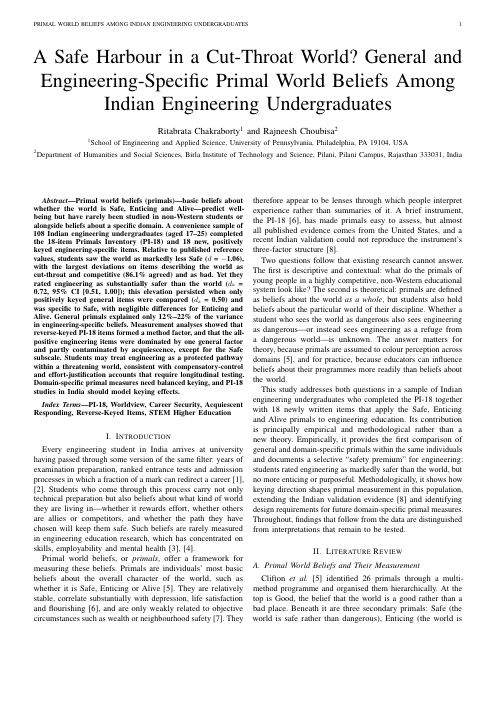
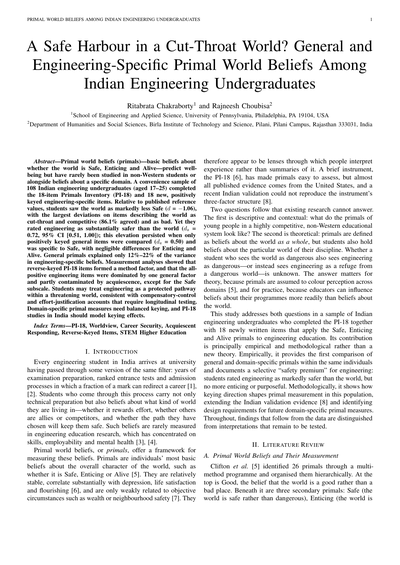
Polish project page typography/layout and README formatting
Page:
- Load Source Serif 4 / Inter / JetBrains Mono so fonts render identically everywhere
  (previous Charter/system-ui stack fell back to arbitrary system fonts)
- Fix paper thumbnail aspect ratio (missing height:auto stretched it); render at 150 dpi
- Left-align abstract (justify left large gaps where browsers lack hyphenation)
- Align Copy button with Citation heading; align BibTeX fields
- 2x2 stat grid and compact buttons on phones; keep author names unbroken
- Italic d in stat cards, sub/sup no longer disturb line height, figures link to full size

README: wrap reproduction commands to avoid horizontal scroll, add figure caption,
align BibTeX fields

Changed region(s): [[0.06, 0.2708, 0.93, 0.9027], [0.06, 0.0602, 0.93, 0.2407], [0.87, 0.2106, 0.9, 0.2407]]

diff --git a/docs/index.html b/docs/index.html
@@ -59,8 +59,15 @@
 }
 </script>
 
+<link rel="preconnect" href="https://fonts.googleapis.com">
+<link rel="preconnect" href="https://fonts.gstatic.com" crossorigin>
+<link rel="stylesheet" href="https://fonts.googleapis.com/css2?family=Source+Serif+4:ital,opsz,wght@0,8..60,400;0,8..60,600;0,8..60,700;1,8..60,400&family=Inter:wght@400;500;600;700&family=JetBrains+Mono:wght@400&display=swap">
+
 <style>
 :root {
+  --serif: "Source Serif 4", Georgia, "Times New Roman", serif;
+  --sans: "Inter", -apple-system, "Segoe UI", Roboto, "Helvetica Neue", Arial, sans-serif;
+  --mono: "JetBrains Mono", "SFMono-Regular", Menlo, Consolas, monospace;
   --bg: #fbfaf7; --fg: #1d1d1f; --muted: #5d5d63; --rule: #e3e0d8;
   --card: #ffffff; --accent: #8a3b12; --accent-soft: #f4e9e1; --code: #f2efe8;
 }
@@ -78,52 +85,73 @@
 html { -webkit-text-size-adjust: 100%; }
 body {
   margin: 0; background: var(--bg); color: var(--fg);
-  font: 17px/1.65 "Charter", "Bitstream Charter", "Source Serif Pro", Georgia, serif;
+  font: 18px/1.7 var(--serif);
+  -webkit-font-smoothing: antialiased; text-rendering: optimizeLegibility;
 }
 .wrap { max-width: 860px; margin: 0 auto; padding: 0 16px; }
 header { padding: 64px 0 32px; text-align: center; border-bottom: 1px solid var(--rule); }
-.kicker { font: 600 12px/1 system-ui, sans-serif; letter-spacing: .14em; text-transform: uppercase; color: var(--accent); }
-h1 { font-size: clamp(26px, 4.6vw, 40px); line-height: 1.18; margin: 16px 0 20px; font-weight: 700; letter-spacing: -.01em; }
-h1 span { display: block; font-weight: 400; font-size: .62em; margin-top: 10px; color: var(--muted); }
-.authors { font-size: 18px; margin: 0 0 6px; }
-.authors a { color: var(--fg); text-decoration-color: var(--rule); }
-.affil { font: 14px/1.5 system-ui, sans-serif; color: var(--muted); margin: 0; }
+.kicker { font: 600 12px/1 var(--sans); letter-spacing: .14em; text-transform: uppercase; color: var(--accent); }
+h1 { font-size: clamp(28px, 4.8vw, 42px); line-height: 1.15; margin: 18px 0 22px; font-weight: 700; letter-spacing: -.015em; text-wrap: balance; }
+h1 span { display: block; font-weight: 400; font-size: .56em; line-height: 1.35; letter-spacing: 0; margin: 12px auto 0; max-width: 34em; color: var(--muted); text-wrap: balance; }
+.authors { font-size: 19px; margin: 0 0 8px; }
+.authors .name { white-space: nowrap; }
+.authors a { color: var(--fg); text-decoration: underline; text-decoration-color: var(--rule); text-underline-offset: 3px; }
+.authors a:hover { text-decoration-color: var(--accent); }
+.affil { font: 14px/1.55 var(--sans); color: var(--muted); margin: 0; }
 .buttons { display: flex; flex-wrap: wrap; justify-content: center; gap: 10px; margin-top: 28px; }
 .btn {
-  font: 600 14px/1 system-ui, sans-serif; color: var(--bg); background: var(--fg);
-  padding: 11px 18px; border-radius: 999px; text-decoration: none;
+  display: inline-flex; align-items: center; font: 600 14px/1 var(--sans); color: var(--bg); background: var(--fg);
+  padding: 11px 20px; border: 1px solid var(--fg); border-radius: 999px; text-decoration: none; transition: opacity .15s;
 }
-.btn.ghost { background: transparent; color: var(--fg); border: 1px solid var(--rule); }
+.btn.ghost { background: transparent; color: var(--fg); border-color: var(--rule); }
+.btn.ghost:hover { border-color: var(--muted); opacity: 1; }
 .btn:hover { opacity: .85; }
-section { padding: 40px 0; border-bottom: 1px solid var(--rule); }
-h2 { font: 700 13px/1 system-ui, sans-serif; letter-spacing: .14em; text-transform: uppercase; color: var(--muted); margin: 0 0 20px; }
+section { padding: 44px 0; border-bottom: 1px solid var(--rule); }
+h2 { font: 600 12px/1 var(--sans); letter-spacing: .14em; text-transform: uppercase; color: var(--muted); margin: 0 0 20px; }
 p { margin: 0 0 1em; }
-.abstract { text-align: justify; hyphens: auto; }
-.stats { display: grid; grid-template-columns: repeat(auto-fit, minmax(180px, 1fr)); gap: 14px; margin: 8px 0 0; }
+.abstract { text-wrap: pretty; }
+sub, sup { line-height: 0; }
+.keywords { font: 14px/1.6 var(--sans); color: var(--muted); margin: 0; }
+.keywords b { color: var(--fg); font-weight: 600; }
+.stats { display: grid; grid-template-columns: repeat(4, 1fr); gap: 14px; margin: 0; }
 .stat { background: var(--card); border: 1px solid var(--rule); border-radius: 12px; padding: 18px; }
-.stat b { display: block; font: 700 28px/1.1 system-ui, sans-serif; color: var(--accent); }
-.stat small { display: block; font: 14px/1.45 system-ui, sans-serif; color: var(--muted); margin-top: 6px; }
+.stat b { display: block; font: 700 27px/1.15 var(--serif); color: var(--accent); white-space: nowrap; }
+.stat small { display: block; font: 13.5px/1.45 var(--sans); color: var(--muted); margin-top: 6px; }
 figure { margin: 28px 0; }
+figure a { display: block; }
 figure img { width: 100%; height: auto; display: block; border-radius: 8px; background: #fff; border: 1px solid var(--rule); }
-figcaption { font: 14px/1.55 system-ui, sans-serif; color: var(--muted); margin-top: 10px; }
-ol.findings { padding-left: 1.2em; }
-ol.findings li { margin-bottom: .7em; }
+figcaption { text-wrap: pretty; font: 14px/1.6 var(--sans); color: var(--muted); margin-top: 10px; }
+ol.findings { padding-left: 1.4em; margin: 0; }
+ol.findings li::marker { color: var(--accent); font-weight: 600; }
+ol.findings li { margin-bottom: .8em; padding-left: .2em; }
 pre {
   background: var(--code); border: 1px solid var(--rule); border-radius: 8px;
-  padding: 16px; overflow-x: auto; font: 13px/1.5 ui-monospace, "SFMono-Regular", Menlo, monospace; margin: 0;
+  padding: 16px 18px; overflow-x: auto; font: 13px/1.6 var(--mono); margin: 0; white-space: pre;
 }
-.copy { float: right; font: 600 12px/1 system-ui, sans-serif; background: var(--accent-soft); color: var(--accent); border: 0; border-radius: 6px; padding: 7px 10px; cursor: pointer; }
-.resources { display: grid; grid-template-columns: 140px 1fr; gap: 24px; align-items: start; }
-.resources img { width: 100%; border: 1px solid var(--rule); border-radius: 4px; background: #fff; }
+.head-row { display: flex; align-items: center; justify-content: space-between; margin-bottom: 16px; }
+.head-row h2 { margin: 0; }
+.copy { font: 600 12px/1 var(--sans); background: var(--accent-soft); color: var(--accent); border: 0; border-radius: 6px; padding: 7px 10px; cursor: pointer; }
+.resources { display: grid; grid-template-columns: 132px 1fr; gap: 28px; align-items: start; }
+.resources a.thumb { display: block; }
+.resources img { display: block; width: 100%; height: auto; border: 1px solid var(--rule); border-radius: 4px; background: #fff; box-shadow: 0 1px 3px rgba(0,0,0,.08); }
 .resources ul { margin: 0; padding-left: 1.1em; }
+.resources li { margin-bottom: .5em; }
 code { background: var(--code); padding: 1px 5px; border-radius: 4px; font-size: .88em; }
-a { color: var(--accent); }
-footer { padding: 32px 0 56px; font: 13px/1.6 system-ui, sans-serif; color: var(--muted); text-align: center; }
+a { color: var(--accent); text-underline-offset: 2px; }
+footer { padding: 32px 0 56px; font: 13px/1.7 var(--sans); color: var(--muted); text-align: center; }
+@media (max-width: 760px) {
+  .stats { grid-template-columns: repeat(2, 1fr); }
+}
 @media (max-width: 560px) {
-  header { padding-top: 40px; }
-  .resources { grid-template-columns: 1fr; }
-  .resources img { max-width: 160px; }
-  .abstract { text-align: left; }
+  body { font-size: 17px; }
+  header { padding: 40px 0 28px; }
+  section { padding: 36px 0; }
+  .stats { gap: 10px; }
+  .stat { padding: 14px; }
+  .stat b { font-size: 23px; }
+  .resources { grid-template-columns: 96px 1fr; gap: 18px; }
+  .buttons { gap: 8px; }
+  .btn { padding: 9px 14px; font-size: 13px; }
 }
 </style>
 </head>
@@ -135,11 +163,11 @@ footer { padding: 32px 0 56px; font: 13px/1.6 system-ui, sans-serif; color: var(
     <h1>A Safe Harbour in a Cut-Throat World?
       <span>General and Engineering-Specific Primal World Beliefs Among Indian Engineering Undergraduates</span></h1>
     <p class="authors">
-      <a href="https://scholar.google.com/citations?user=JikCewwAAAAJ&amp;hl=en">Ritabrata Chakraborty</a><sup>1</sup>
-      &nbsp;and&nbsp; Rajneesh Choubisa<sup>2</sup>
+      <span class="name"><a href="https://scholar.google.com/citations?user=JikCewwAAAAJ&amp;hl=en">Ritabrata Chakraborty</a><sup>1</sup></span>
+      &nbsp;and&nbsp; <span class="name">Rajneesh Choubisa<sup>2</sup></span>
     </p>
     <p class="affil"><sup>1</sup>School of Engineering and Applied Science, University of Pennsylvania</p>
-    <p class="affil"><sup>2</sup>Department of Humanities and Social Sciences, BITS Pilani, Pilani Campus</p>
+    <p class="affil"><sup>2</sup>Department of Humanities and Social Sciences, BITS&nbsp;Pilani, Pilani&nbsp;Campus</p>
     <div class="buttons">
       <a class="btn" href="paper.pdf">Paper (PDF)</a>
       <a class="btn ghost" href="https://github.com/robotics1106/primal-world-beliefs-engineering">Code &amp; Data</a>
@@ -154,25 +182,25 @@ footer { padding: 32px 0 56px; font: 13px/1.6 system-ui, sans-serif; color: var(
 <section id="abstract">
   <h2>Abstract</h2>
   <p class="abstract">Primal world beliefs (primals), people's most basic beliefs about whether the world is Safe, Enticing and Alive, predict well-being but have rarely been studied in non-Western students or alongside beliefs about a specific domain. A convenience sample of 108 Indian engineering undergraduates (aged 17–25) completed the 18-item Primals Inventory (PI-18) and 18 new, positively keyed engineering-specific items. Relative to published reference values, students saw the world as markedly less Safe (<i>d</i> = −1.06), with the largest deviations on items describing the world as cut-throat and competitive (86.1% agreed) and as bad. Yet they rated engineering as substantially safer than the world (<i>d</i><sub>z</sub> = 0.72, 95% CI [0.51, 1.00]); this elevation persisted when only positively keyed general items were compared (<i>d</i><sub>z</sub> = 0.50) and was specific to Safe, with negligible differences for Enticing and Alive. General primals explained only 12%–22% of the variance in engineering-specific beliefs. Measurement analyses showed that reverse-keyed PI-18 items formed a method factor, and that the all-positive engineering items were dominated by one general factor and partly contaminated by acquiescence, except for the Safe subscale. Students may treat engineering as a protected pathway within a threatening world, consistent with compensatory-control and effort-justification accounts that require longitudinal testing. Domain-specific primal measures need balanced keying, and PI-18 studies in India should model keying effects.</p>
-  <p class="affil"><b>Keywords:</b> PI-18, worldview, career security, acquiescent responding, reverse-keyed items, STEM higher education</p>
+  <p class="keywords"><b>Keywords:</b> PI-18, worldview, career security, acquiescent responding, reverse-keyed items, STEM higher education</p>
 </section>
 
 <section id="results">
   <h2>Key results</h2>
   <div class="stats">
-    <div class="stat"><b>d = −1.06</b><small>General Safe vs. published reference values (PI-18)</small></div>
-    <div class="stat"><b>86.1%</b><small>agreed the world is “cut-throat and competitive”</small></div>
-    <div class="stat"><b>d<sub>z</sub> = 0.72</b><small>Engineering rated safer than the world, within person</small></div>
+    <div class="stat"><b><i>d</i> = −1.06</b><small>General Safe vs. published reference values (PI-18)</small></div>
+    <div class="stat"><b>86.1%</b><small>agreed the world is “cut‑throat and competitive”</small></div>
+    <div class="stat"><b><i>d</i><sub>z</sub> = 0.72</b><small>Engineering rated safer than the world, within person</small></div>
     <div class="stat"><b>12–22%</b><small>Variance in engineering beliefs explained by general primals</small></div>
   </div>
 
   <figure>
-    <img src="assets/fig2_domain_vs_general.png" alt="Two-panel figure: engineering-specific versus general Safe, Enticing and Alive means, and a scatter plot of each student's engineering versus general Safe score." loading="lazy" width="1800" height="966">
+    <a href="assets/fig2_domain_vs_general.png"><img src="assets/fig2_domain_vs_general.png" alt="Two-panel figure: engineering-specific versus general Safe, Enticing and Alive means, and a scatter plot of each student's engineering versus general Safe score." loading="lazy" width="1800" height="966"></a>
     <figcaption><b>Engineering vs. general beliefs.</b> (A) Means with 95% CIs; hollow markers use only positively keyed PI-18 items (keying-matched comparison). (B) Each point is one student; dashed lines mark the scale midpoint; the solid line is the least-squares fit.</figcaption>
   </figure>
 
   <figure>
-    <img src="assets/fig1_items_vs_reference.png" alt="Dot plot of each PI-18 item mean in this sample compared with the published reference mean." loading="lazy" width="1800" height="1785">
+    <a href="assets/fig1_items_vs_reference.png"><img src="assets/fig1_items_vs_reference.png" alt="Dot plot of each PI-18 item mean in this sample compared with the published reference mean." loading="lazy" width="1800" height="1785"></a>
     <figcaption><b>General primal items vs. reference values.</b> Circles: present sample (means, 95% CIs, <i>N</i> = 108). Diamonds: published reference means (Clifton &amp; Yaden, 2021, Study 2, <i>N</i> = 5,171). (R) marks reverse-keyed items, shown after rescoring.</figcaption>
   </figure>
 </section>
@@ -186,7 +214,7 @@ footer { padding: 32px 0 56px; font: 13px/1.6 system-ui, sans-serif; color: var(
     <li><b>Keying matters.</b> Reverse-keyed PI-18 items formed a method factor. The all-positive engineering items were dominated by a general factor and partly inflated by acquiescence, except the Safe subscale.</li>
   </ol>
   <figure>
-    <img src="assets/fig4_acquiescence.png" alt="Forest plot of correlations between the acquiescence index and each general and engineering-specific scale." loading="lazy" width="1800" height="953">
+    <a href="assets/fig4_acquiescence.png"><img src="assets/fig4_acquiescence.png" alt="Forest plot of correlations between the acquiescence index and each general and engineering-specific scale." loading="lazy" width="1800" height="953"></a>
     <figcaption><b>Acquiescence.</b> Correlations (95% CIs) of the content-balanced acquiescence index with general and engineering-specific scales.</figcaption>
   </figure>
 </section>
@@ -194,7 +222,7 @@ footer { padding: 32px 0 56px; font: 13px/1.6 system-ui, sans-serif; color: var(
 <section id="resources">
   <h2>Paper, data &amp; code</h2>
   <div class="resources">
-    <a href="paper.pdf"><img src="assets/paper-thumb.png" alt="First page of the paper" width="497" height="702"></a>
+    <a class="thumb" href="paper.pdf"><img src="assets/paper-thumb.png" alt="First page of the paper" width="400" height="565"></a>
     <ul>
       <li><a href="paper.pdf">Full paper (PDF)</a>, including supplementary material: EPB-18 item wording, item-level results, sensitivity analysis, codebook and STROBE checklist.</li>
       <li><a href="https://github.com/robotics1106/primal-world-beliefs-engineering/tree/main/Data_code_and_figures/data">De-identified data</a> (<i>N</i> = 108; state recoded to region, time stamps removed).</li>
@@ -205,17 +233,19 @@ footer { padding: 32px 0 56px; font: 13px/1.6 system-ui, sans-serif; color: var(
 </section>
 
 <section id="citation">
-  <h2>Citation</h2>
-  <button class="copy" type="button" onclick="navigator.clipboard.writeText(document.getElementById('bib').innerText).then(()=>{this.textContent='Copied'})">Copy</button>
+  <div class="head-row">
+    <h2>Citation</h2>
+    <button class="copy" type="button" onclick="navigator.clipboard.writeText(document.getElementById('bib').innerText).then(()=>{this.textContent='Copied';setTimeout(()=>this.textContent='Copy',1500)})">Copy BibTeX</button>
+  </div>
 <pre id="bib">@misc{chakraborty2026safeharbour,
-  title  = {A Safe Harbour in a Cut-Throat World? General and Engineering-Specific
-            Primal World Beliefs Among Indian Engineering Undergraduates},
-  author = {Chakraborty, Ritabrata and Choubisa, Rajneesh},
-  year   = {2026},
+  title     = {A Safe Harbour in a Cut-Throat World? General and Engineering-Specific
+               Primal World Beliefs Among Indian Engineering Undergraduates},
+  author    = {Chakraborty, Ritabrata and Choubisa, Rajneesh},
+  year      = {2026},
   publisher = {Zenodo},
-  note   = {Preprint},
-  doi    = {10.5281/zenodo.23432899},
-  url    = {https://doi.org/10.5281/zenodo.23432899}
+  note      = {Preprint},
+  doi       = {10.5281/zenodo.23432899},
+  url       = {https://doi.org/10.5281/zenodo.23432899}
 }</pre>
 </section>
 

diff --git a/README.md b/README.md
@@ -10,6 +10,8 @@ Ritabrata Chakraborty (University of Pennsylvania) · Rajneesh Choubisa (BITS Pi
 
 ![Engineering-specific versus general primal beliefs](docs/assets/fig2_domain_vs_general.png)
 
+*Engineering-specific vs. general primal beliefs. (A) Means with 95% CIs. (B) Each point is one student's general vs. engineering Safe score.*
+
 ## Summary
 
 Primal world beliefs (primals) are people's most basic beliefs about whether the world is Safe, Enticing and Alive. We gave 108 Indian engineering undergraduates (aged 17–25) the 18-item Primals Inventory (PI-18) and 18 new engineering-specific items (EPB-18).
@@ -34,11 +36,15 @@ Primal world beliefs (primals) are people's most basic beliefs about whether the
 Requirements: Python 3.11+, with `pandas`, `numpy`, `scipy`, `statsmodels`, `matplotlib`, `factor_analyzer==0.5.1` and `semopy==2.3.11`.
 
 ```bash
-pip install pandas numpy scipy statsmodels matplotlib "scikit-learn<1.6" factor_analyzer==0.5.1 semopy==2.3.11
+pip install pandas numpy scipy statsmodels matplotlib \
+    "scikit-learn<1.6" factor_analyzer==0.5.1 semopy==2.3.11
 cd Data_code_and_figures
-python scripts/analysis.py data/pwb_engineering_deidentified.csv out   # writes out/results.json
-python scripts/tables.py                                              # formats tables from out/
-python scripts/figures.py                                             # regenerates the figures
+
+# All statistics -> out/results.json
+python scripts/analysis.py data/pwb_engineering_deidentified.csv out
+# Tables and figures from out/
+python scripts/tables.py
+python scripts/figures.py
 ```
 
 The fixed bootstrap seed (`20241013`) reproduces every reported value except the number of states represented and the data-collection dates, which need the raw data. `factor_analyzer` 0.5.1 passes a scikit-learn argument that was later renamed (`force_all_finite` → `ensure_all_finite`). Pin `scikit-learn<1.6` as shown, or make that one-word rename.
@@ -47,14 +53,14 @@ The fixed bootstrap seed (`20241013`) reproduces every reported value except the
 
 ```bibtex
 @misc{chakraborty2026safeharbour,
-  title  = {A Safe Harbour in a Cut-Throat World? General and Engineering-Specific
-            Primal World Beliefs Among Indian Engineering Undergraduates},
-  author = {Chakraborty, Ritabrata and Choubisa, Rajneesh},
-  year   = {2026},
+  title     = {A Safe Harbour in a Cut-Throat World? General and Engineering-Specific
+               Primal World Beliefs Among Indian Engineering Undergraduates},
+  author    = {Chakraborty, Ritabrata and Choubisa, Rajneesh},
+  year      = {2026},
   publisher = {Zenodo},
-  note   = {Preprint},
-  doi    = {10.5281/zenodo.23432899},
-  url    = {https://doi.org/10.5281/zenodo.23432899}
+  note      = {Preprint},
+  doi       = {10.5281/zenodo.23432899},
+  url       = {https://doi.org/10.5281/zenodo.23432899}
 }
 ```
 
